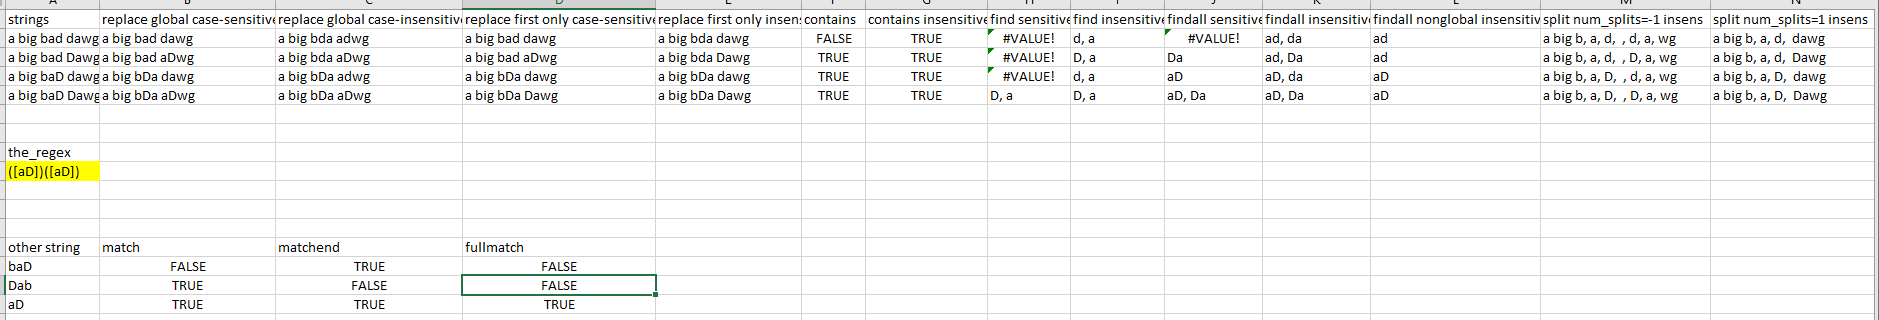
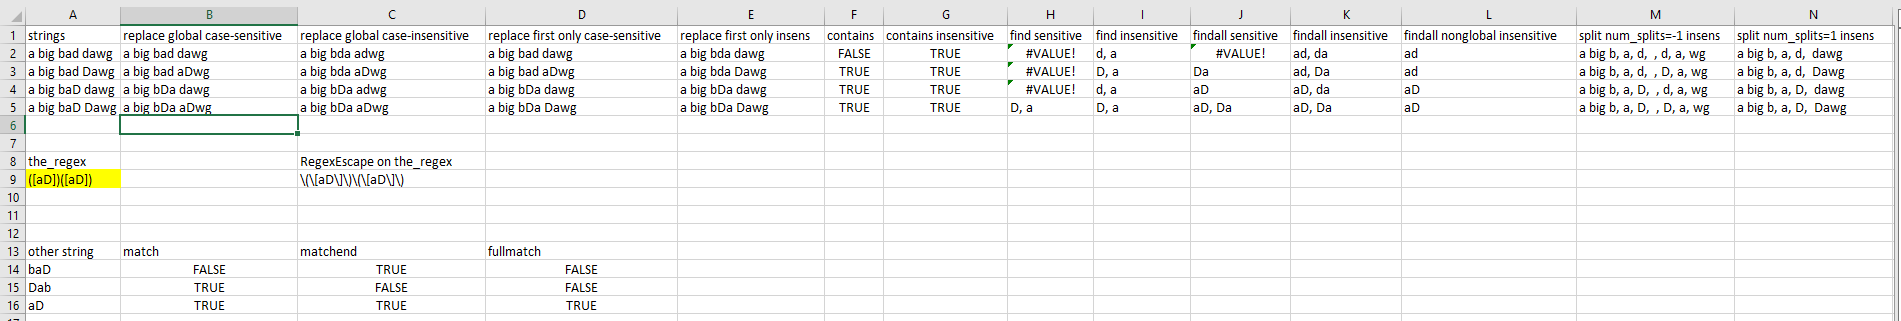
Add skeleton regex builder GUI, add new funcs - Added RegexEscape to get the same functionality as re.escape in Python - Added RegexFindObject to make it easy to find a single match object for a regex that matches in multiple places - Added a simple GUI which I will eventually make work so that it c

diff --git a/CHANGELOG.md b/CHANGELOG.md
@@ -8,7 +8,15 @@ and this project adheres to [Semantic Versioning](http://semver.org/).
  
 ### To Be Added
 
-- ???
+- Fully functional Regex Builder Form.
+
+# [2.0.0] - 2022-03-10
+
+### Added
+
+- RegexFindObject (like indexing in `list(re.finditer(x))`, which returns the n^th match as a match object, unlike RegexFind, which returns a string.
+- RegexEscape (`re.escape` workalike), which takes a string and returns the string with all special characters escaped.
+- The basic skeleton of "Regex Builder Form.xlsm", which will allow people to build regular expressions by a GUI similar to [RegexBuddy](https://www.rexegg.com/regexbuddy-tutorial.html). This is not yet functional.
 
 ## [1.0.0] - 2022-03-09
 
